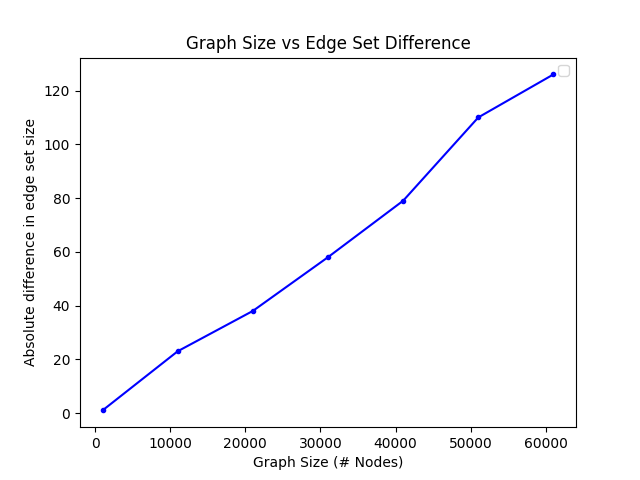
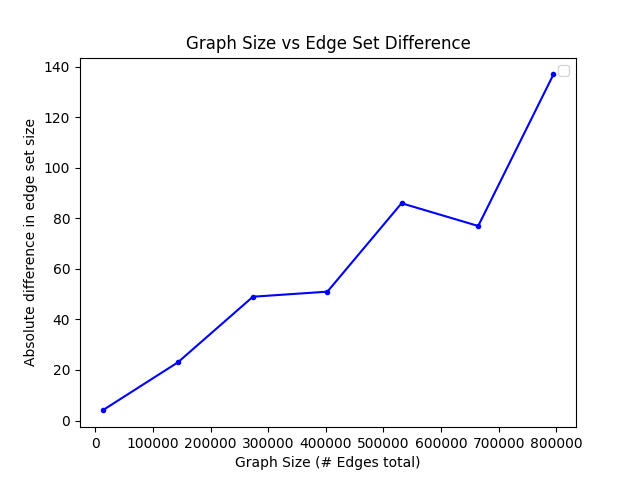
Updated graph script: x axis tracks total edges

diff --git a/run_metrics.py b/run_metrics.py
@@ -28,10 +28,12 @@ class MetricRunner:
         # Counts the *absolute number* of edges that are missing in the bloom filter version
         if map_edges:
             edge_diff = []
+            total_edges = []
 
         for i in range(start, end + 1, interval):
             graph_size.append(i)
-            graph = Graph(i).graph
+            graph_obj = Graph(i)
+            graph = graph_obj.graph
 
             if not map_edges:
                 basic_cost, space = Graph.minimum_spanning_tree(graph, "A")
@@ -47,7 +49,7 @@ class MetricRunner:
                 ) = Graph.bloom_minimum_spanning_tree(graph, "A", True)
                 bloom_stats["space"] += sys.getsizeof(bloom_edges)
                 edge_diff.append(abs(basic_edges.count() - bloom_edges.count()))
-                print(edge_diff)
+                total_edges.append(len(basic_edges))
 
             basic_prims_space.append(space)
             basic_prims_cost.append(basic_cost)
@@ -74,6 +76,7 @@ class MetricRunner:
                 bloom_prims_cost,
                 bloom_prims_stats,
                 edge_diff,
+                total_edges,
             )
 
 
@@ -102,8 +105,10 @@ class ChartGenerator:
                 bl_cost,
                 bl_stats,
                 edge_diff,
+                total_edges,
             ) = self.metric_runner.cost_size_compare(map_edges=True)
             self.data["edge_diff"] = edge_diff
+            self.data["n_edges"] = total_edges
 
         self.data["g_size"] = g_size
         self.data["ba_space"] = ba_space
@@ -130,10 +135,10 @@ class ChartGenerator:
         assert "edge_diff" in self.data
 
         self.plot_singular(
-            self.data["g_size"],
+            self.data["n_edges"],
             self.data["edge_diff"],
             "Absolute difference in edge set size",
-            "Graph Size (# Nodes)",
+            "Graph Size (# Edges total)",
             "Graph Size vs Edge Set Difference",
             f"edges{self.data['g_size'][-1]//1000}k.png",
         )

diff --git a/graph.py b/graph.py
@@ -18,6 +18,7 @@ class Graph:
     def __init__(self, n):
         self.size = n
         self.graph = self._generate_graph(n)
+        self.n_edges = 0
 
     def __str__(self):
         return str(self.graph)
@@ -51,6 +52,7 @@ class Graph:
                     edge_idx += 1
 
         graph[-1] = edge_idx  # Equivalent to # of edges. Probably bad practice but w/e
+        self.n_edges = edge_idx
         print("Graph Generated.\n")
         return graph
 
